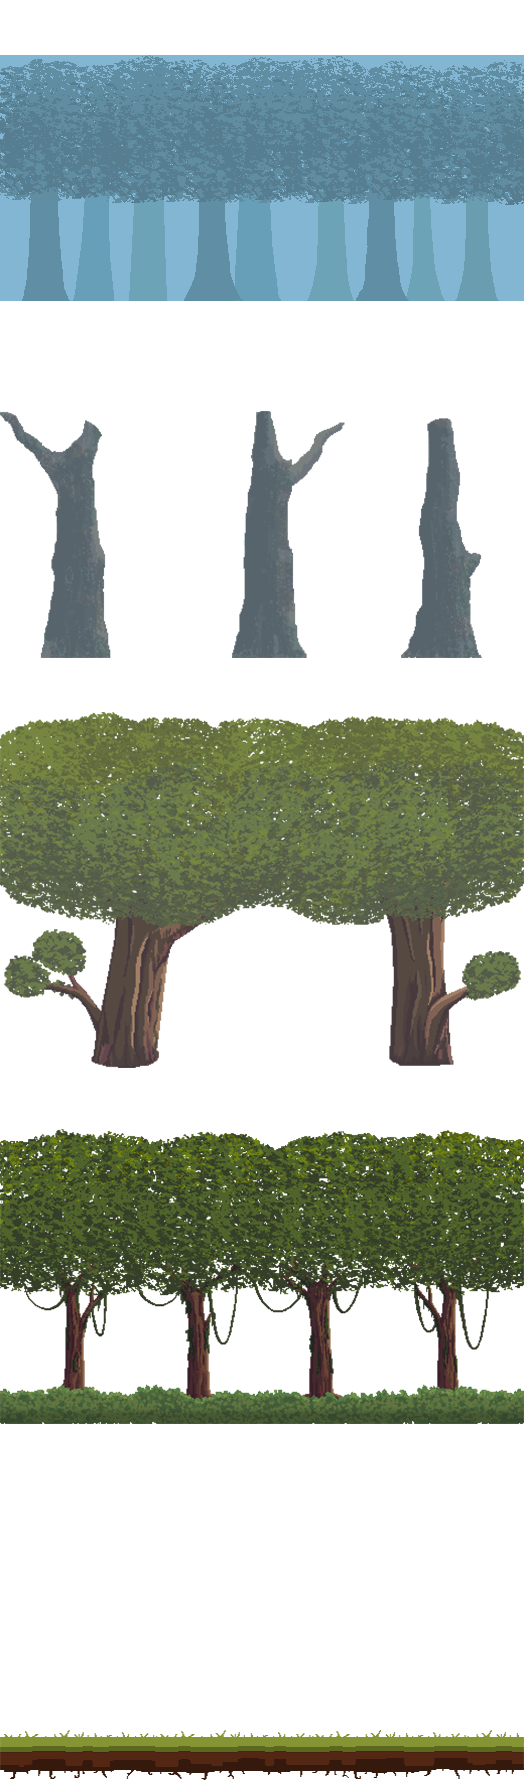
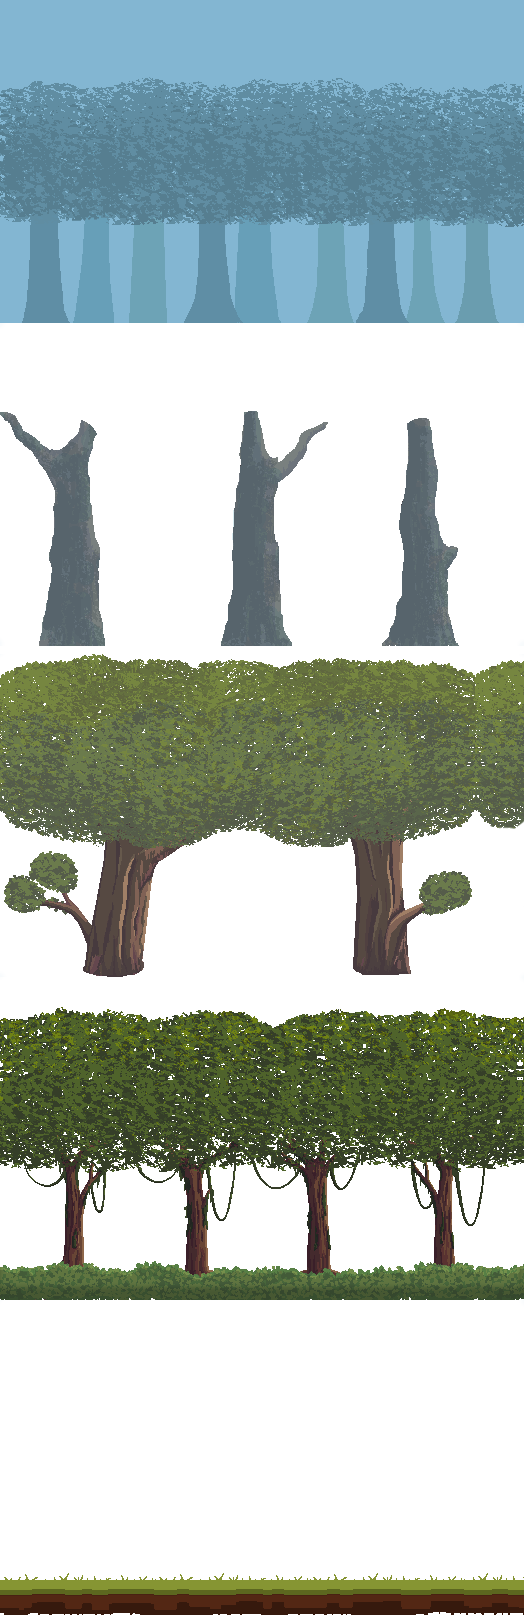
parallax background

Changed region(s): [[0.0, 0.0, 1.0, 0.805], [0.0, 0.9598, 1.0, 1.0]]

diff --git a/Holo-annie-jam/Screens/Gameplay/StageOneBackgroundScreen.cs b/Holo-annie-jam/Screens/Gameplay/StageOneBackgroundScreen.cs
@@ -3,6 +3,7 @@ using Microsoft.Xna.Framework;
 using Microsoft.Xna.Framework.Content;
 using Microsoft.Xna.Framework.Graphics;
 using System;
+using System.Collections.Generic;
 #endregion
 
 /// <summary>
@@ -24,8 +25,8 @@ class StageOneBackgroundScreen : GameScreen {
     float wallWidth;
     float wallHeight;
 
-    Quad leftWall;
-    Quad rightWall;
+    List<Quad> leftWall = new List<Quad>();
+    List<Quad> rightWall = new List<Quad>();
 
     #endregion
 
@@ -58,11 +59,11 @@ class StageOneBackgroundScreen : GameScreen {
         Viewport viewport = ScreenManager.GraphicsDevice.Viewport;
 
         groundTexture = content.Load<Texture2D>("GameplayAssets/Background/cobblestone_3");
-        wallSheet = new TextureSheet(content.Load<Texture2D>("Beatmaps/Chikutaku/Assets/ChikuTaku_Wall_Background"), 5, 1);
+        wallSheet = new TextureSheet(content.Load<Texture2D>("Beatmaps/Chikutaku/Assets/ChikuTaku_Wall_Background"), StageOne.NUM_WALLS, 1);
 
         basicEffect = new BasicEffect(ScreenManager.GraphicsDevice);
         basicEffect.TextureEnabled = true;
-        basicEffect.Texture = groundTexture;
+        basicEffect.Texture = wallSheet.Texture;
         basicEffect.World = GameplayTransforms.GetWorldMatrix(viewport.Height);
         basicEffect.View = GameplayTransforms.GetViewMatrix();
         basicEffect.Projection = GameplayTransforms.GetProjectionMatrix();
@@ -74,23 +75,25 @@ class StageOneBackgroundScreen : GameScreen {
         groundWidth = groundTexture.Width * 5;
 
         wallWidth = GameConstants.NOTE_HORIZON_DISTANCE;
-        wallHeight = viewport.Height * 8;
+        wallHeight = viewport.Height * 9;
 
-        leftWall = new Quad(
-            new Vector3(-(groundWidth / 2), wallWidth / 2, wallHeight / 2),
-            new Vector3(1, 0, 0),
-            new Vector3(0, 0, 1),
-            wallWidth,
-            wallHeight
-        );
+        for (int i = 0; i < StageOne.NUM_WALLS; i++) {
+            leftWall.Add(new Quad(
+                new Vector3(-(groundWidth / 2) + StageOne.WALL_OFFSET * i, wallWidth / 2, wallHeight / 2),
+                new Vector3(1, 0, 0),
+                new Vector3(0, 0, 1),
+                wallWidth,
+                wallHeight
+            ));
 
-        rightWall = new Quad(
-            new Vector3(groundWidth / 2, wallWidth / 2, wallHeight / 2),
-            new Vector3(-1, 0, 0),
-            new Vector3(0, 0, 1),
-            wallWidth,
-            wallHeight
-        );
+            rightWall.Add(new Quad(
+                new Vector3((groundWidth / 2) - StageOne.WALL_OFFSET * i, wallWidth / 2, wallHeight / 2),
+                new Vector3(-1, 0, 0),
+                new Vector3(0, 0, 1),
+                wallWidth,
+                wallHeight
+            ));
+        }
     }
 
 
@@ -122,18 +125,25 @@ class StageOneBackgroundScreen : GameScreen {
         groundScrollY += 40f;
 
         // scroll walls
-        // dont ask me why, I just lucked on this number and it's perfect for this texture for now
-        // will need to actually do the math to figure out how to get this to correlate to whatever we choose
-        leftWall.SetTextureCoords(
-            Vector2.UnitX * (groundScrollY / groundTexture.Width),
-            wallWidth / groundTexture.Width,
-            wallHeight / groundTexture.Height
-        );
-        rightWall.SetTextureCoords(
-            Vector2.UnitX * (-groundScrollY / groundTexture.Width),
-            wallWidth / groundTexture.Width,
-            wallHeight / groundTexture.Height
-        );
+        for (int i = 0; i < StageOne.NUM_WALLS; i++) {
+            leftWall[i].SetTextureCoords(
+                new Vector2(
+                    (groundScrollY / (15 + 15 * (StageOne.NUM_WALLS - i - 1)) + wallSheet[i].Width) / wallSheet.Width,
+                    ((float)wallSheet[i].Y / (float)wallSheet.Height)
+                ),
+                (float)wallSheet[i].Width / (float)wallSheet.Width,
+                (float)wallSheet[i].Height / (float)wallSheet.Height
+            );
+
+            rightWall[i].SetTextureCoords(
+                new Vector2(
+                    -(groundScrollY / (15 + 15 * (StageOne.NUM_WALLS - i - 1)) + wallSheet[i].Width) / wallSheet.Width,
+                    ((float)wallSheet[i].Y / (float)wallSheet.Height)
+                ),
+                (float)wallSheet[i].Width / (float)wallSheet.Width,
+                (float)wallSheet[i].Height / (float)wallSheet.Height
+            );
+        }
     }
 
 
@@ -146,25 +156,6 @@ class StageOneBackgroundScreen : GameScreen {
         SpriteBatch spriteBatch = ScreenManager.SpriteBatch;
         Viewport viewport = ScreenManager.GraphicsDevice.Viewport;
         Rectangle fullscreen = new Rectangle(0, 0, viewport.Width, viewport.Height);
-
-        // sampler wraps textures to scroll evenly
-        ScreenManager.GraphicsDevice.SamplerStates[0] = SamplerState.LinearWrap;
-        foreach (EffectPass pass in basicEffect.CurrentTechnique.Passes) {
-            pass.Apply();
-
-            // draw walls
-            ScreenManager.GraphicsDevice.DrawUserIndexedPrimitives<VertexPositionNormalTexture>(
-                PrimitiveType.TriangleList,
-                leftWall.Vertices, 0, 4,
-                leftWall.Indices, 0, 2
-            );
-
-            ScreenManager.GraphicsDevice.DrawUserIndexedPrimitives<VertexPositionNormalTexture>(
-                PrimitiveType.TriangleList,
-                rightWall.Vertices, 0, 4,
-                rightWall.Indices, 0, 2
-            );
-        }
 
         // Draw ground
         spriteBatch.Begin(
@@ -182,6 +173,28 @@ class StageOneBackgroundScreen : GameScreen {
             Color.White
         );
         spriteBatch.End();
+
+        // sampler wraps textures to scroll evenly
+        ScreenManager.GraphicsDevice.SamplerStates[0] = SamplerState.LinearWrap;
+        foreach (EffectPass pass in basicEffect.CurrentTechnique.Passes) {
+            pass.Apply();
+
+            // draw walls
+            for (int i = 0; i < StageOne.NUM_WALLS; i++) {
+                // if (i != 1) continue;
+                ScreenManager.GraphicsDevice.DrawUserIndexedPrimitives<VertexPositionNormalTexture>(
+                    PrimitiveType.TriangleList,
+                    leftWall[i].Vertices, 0, 4,
+                    leftWall[i].Indices, 0, 2
+                );
+
+                ScreenManager.GraphicsDevice.DrawUserIndexedPrimitives<VertexPositionNormalTexture>(
+                    PrimitiveType.TriangleList,
+                    rightWall[i].Vertices, 0, 4,
+                    rightWall[i].Indices, 0, 2
+                );
+            }
+        }
     }
     #endregion
 }

diff --git a/Holo-annie-jam/Components/Animations.cs b/Holo-annie-jam/Components/Animations.cs
@@ -20,18 +20,42 @@ using Microsoft.Xna.Framework.Graphics;
 class TextureSheet {
 
     #region Properties
+
     public Texture2D Texture {
         get { return texture;  }
-        set { texture = value;  }
     }
     Texture2D texture;
+
+    public float ZoneWidth {
+        get { return zoneWidth; }
+    }
+    float zoneWidth;
+
+    public float ZoneHeight {
+        get { return zoneHeight; }
+    }
+    float zoneHeight;
+
+    public int NumRows {
+        get { return numRows; }
+    }
+    int numRows;
+
+    public int NumCols {
+        get { return numCols; }
+    }
+    int numCols;
+
+    public int Width {
+        get { return texture.Width; }
+    }
+
+    public int Height {
+        get { return texture.Height; }
+    }
     #endregion
 
     #region fields
-    int numRows;
-    int numCols;
-    float zoneWidth;
-    float zoneHeight;
     #endregion
 
     public Rectangle this[int key] {
@@ -50,13 +74,16 @@ class TextureSheet {
     }
 
     /// <summary>
-    /// Returns a rectangle specifying the texture coords to be used in Quad
+    /// Returns a rectangle specifying the texture coords to be used in Quad in pixels
+    /// This needs to be converted into a percentage of the texture to be used with Quad
     /// (origin.X, origin.Y, width, height)
     /// </summary>
     public Rectangle GetZone(int zone) {
+        int x = (zone + 1) % numCols;
+        int y = (zone + 1) / numCols;
         return new Rectangle(
-            (int) (zone * zoneWidth),
-            (int) ((numRows - (zone + 1)) * zoneHeight),
+            (int) ((x - 1) * zoneWidth),
+            (int) ((y - 1) * zoneHeight),
             (int) zoneWidth,
             (int) zoneHeight
         );

diff --git a/Holo-annie-jam/Screens/Gameplay/WorldConfig.cs b/Holo-annie-jam/Screens/Gameplay/WorldConfig.cs
@@ -44,5 +44,7 @@ static class GameplayTransforms {
 }
 
 static class StageOne {
+    public const float WALL_OFFSET = 50f;
+    public const int NUM_WALLS = 5;
     public static Color BackgroundColor = new Color(195, 205, 191);
 }
